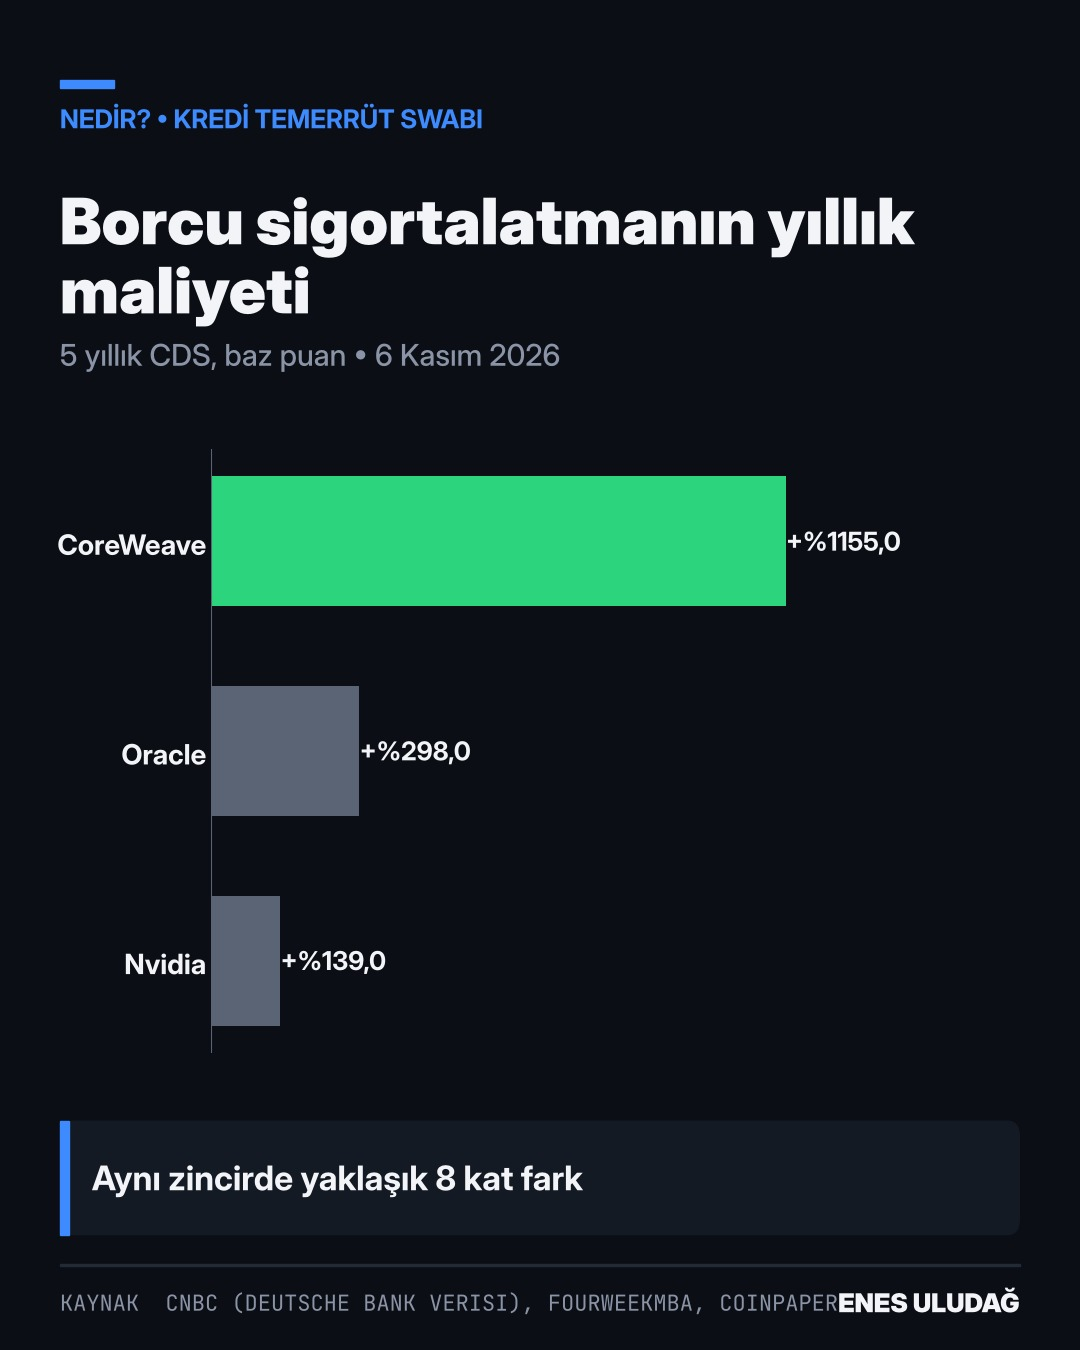
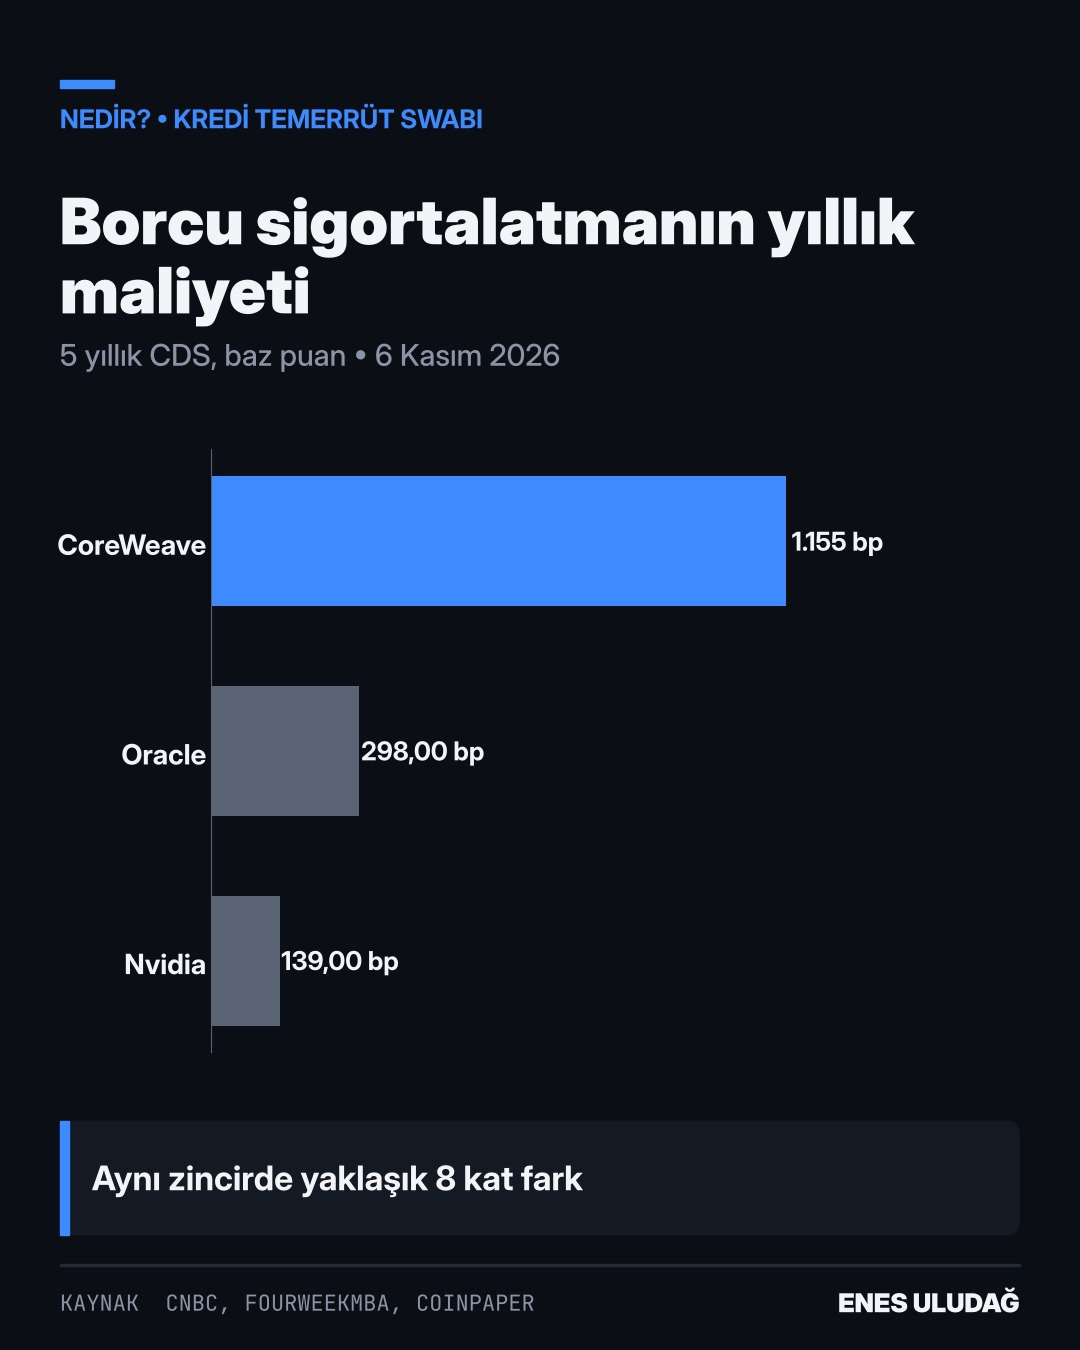
kart 20261125_2000_cds.jpg

diff --git a/invest/kart3.py b/invest/kart3.py
@@ -128,9 +128,10 @@ def siralama(kicker, baslik, alt, satirlar, sonuc, kaynak, out, vurgu=(), birim=
     ax = _ax(fig, r, (0.14, 0.02, 0.10, 0.02)); ax.grid(False); ax.set_xticks([])
     s = sorted(satirlar, key=lambda x: x[1])
     for i, (et, v) in enumerate(s):
-        c = (UP if v >= 0 else DOWN) if et in vurgu or not vurgu else GREY
+        c = ((UP if v >= 0 else DOWN) if birim == "%" else ACC) if et in vurgu or not vurgu else GREY
         ax.barh(i, v, color=c, height=0.62)
-        ax.text(v + (0.6 if v >= 0 else -0.6), i, (f"+%{v:.1f}" if v >= 0 else f"−%{abs(v):.1f}").replace(".", ","),
+        _et = (f"+%{v:.1f}" if v >= 0 else f"−%{abs(v):.1f}").replace(".", ",") if birim == "%" else (_sayi(v) if '_sayi' in globals() else f"{v:,.0f}".replace(",", ".")) + birim
+        ax.text(v + (0.6 if v >= 0 else -0.6) + (0.01 * abs(v) if birim != "%" else 0), i, _et,
                 va="center", ha="left" if v >= 0 else "right", fontsize=26 * 0.72, color=INK, family=FAM, fontweight="bold")
     ax.set_yticks(range(len(s))); ax.set_yticklabels([e for e, _ in s], fontsize=28 * 0.72, color=INK, fontweight="bold")
     ax.axvline(0, color=GREY, lw=1.5)
